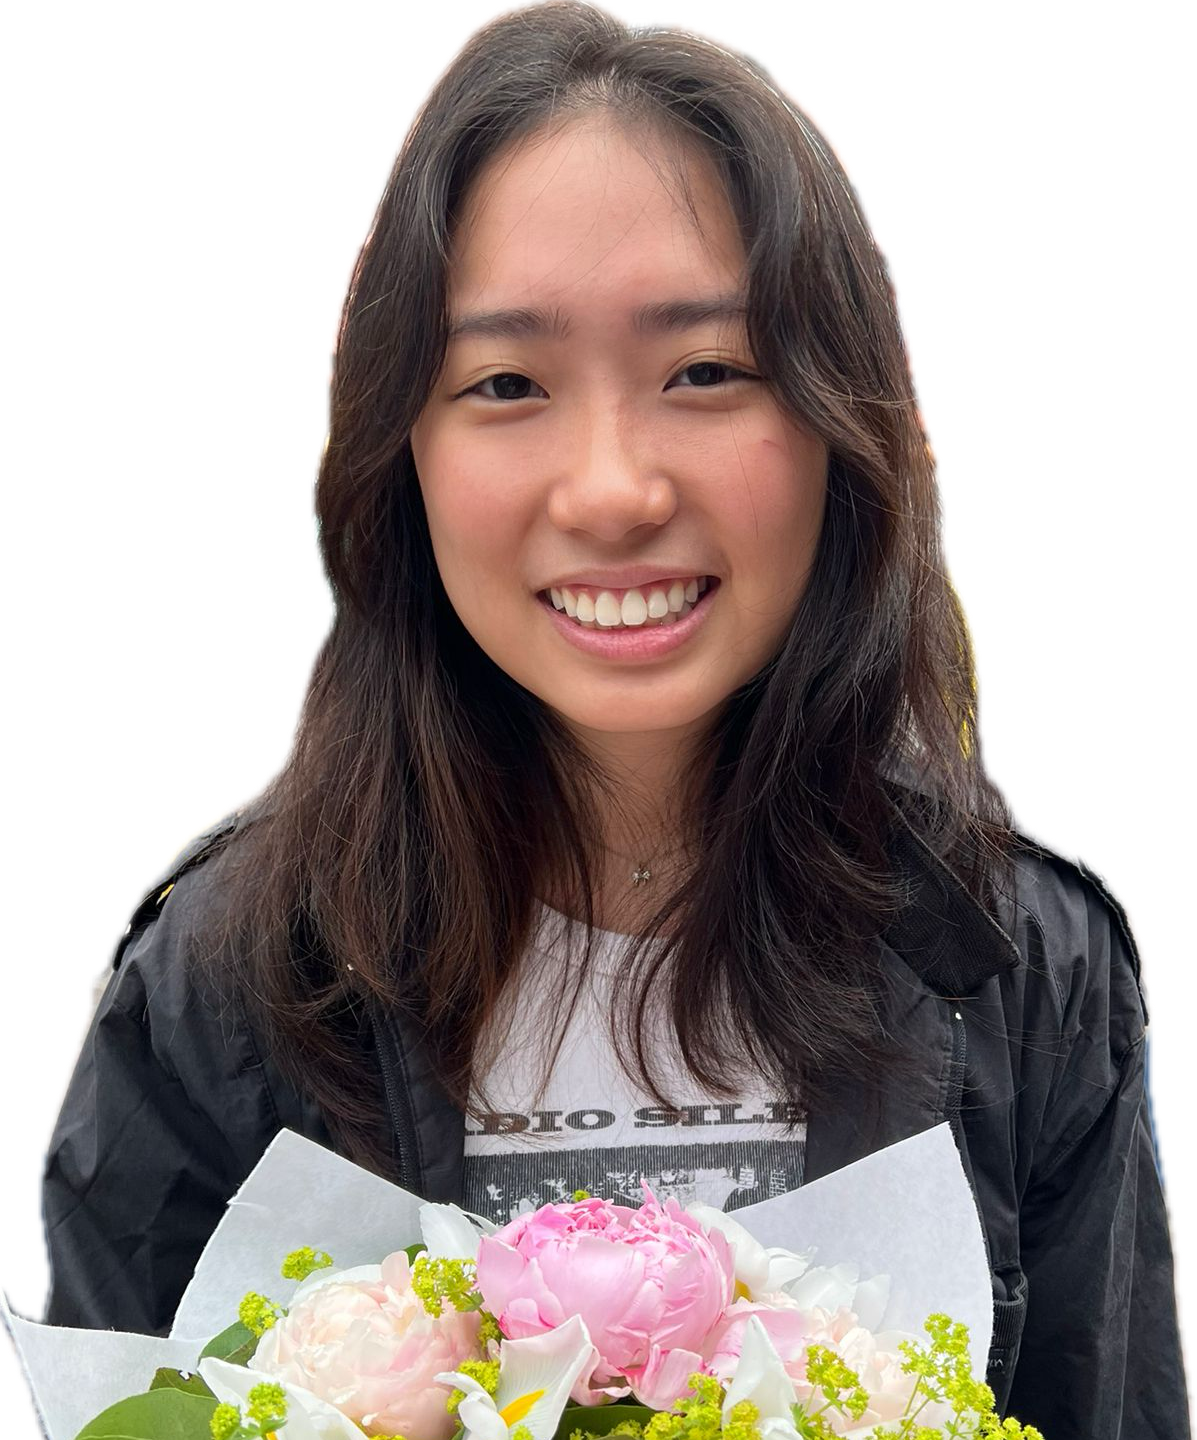
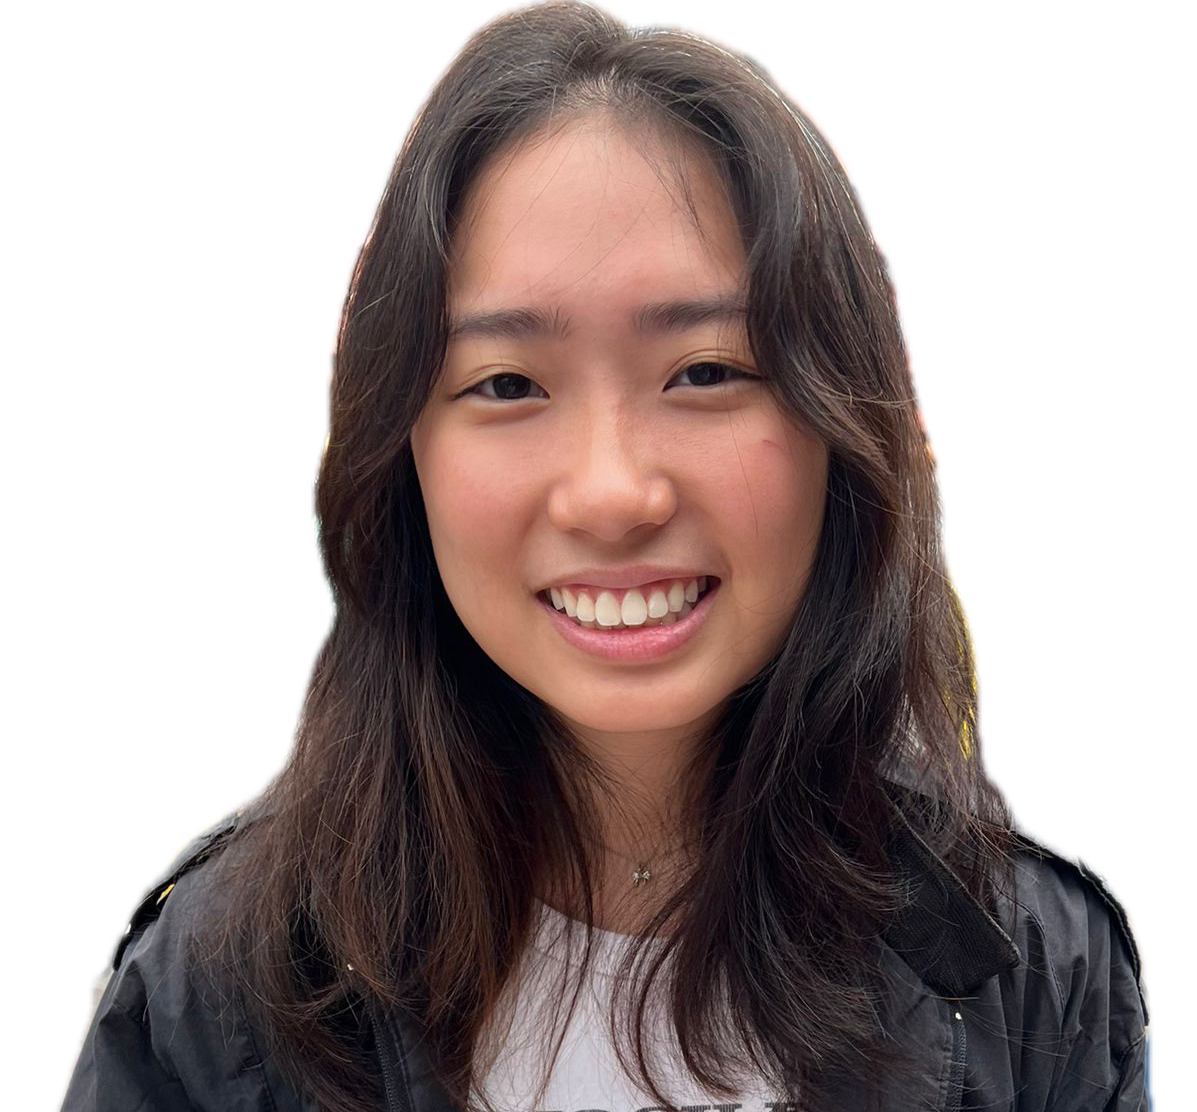
fix

diff --git a/style.css b/style.css
@@ -49,7 +49,7 @@ nav {
 }
 
 #headshot {
-    width: 80%;
+    width: 95%;
     margin-left: 20%;
 }
 
